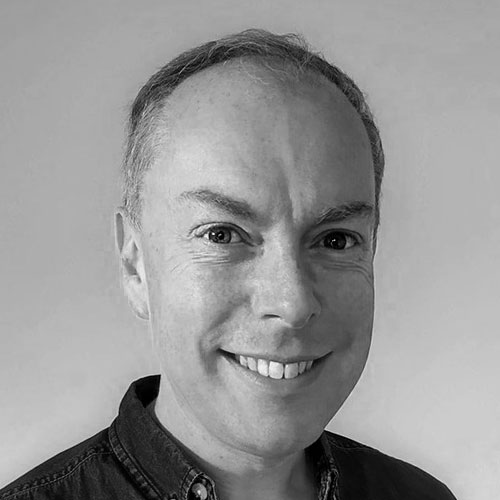
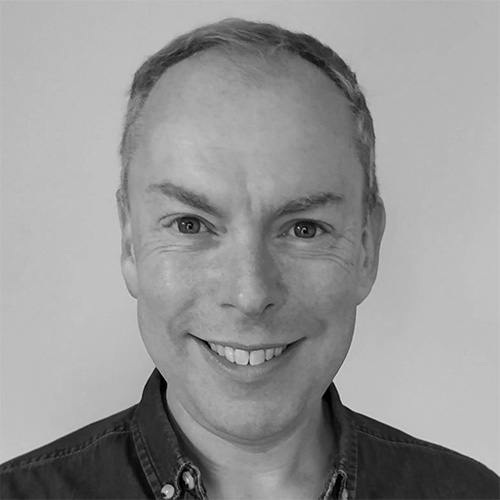
Added first set of speakers and bios

Changed region(s): [[0.0, 0.0, 1.0, 1.0], [0.0, 0.0, 0.18, 0.06], [0.21, 0.99, 0.24, 1.0]]

diff --git a/layouts/partials/speakers-template.html b/layouts/partials/speakers-template.html
@@ -1,13 +1,23 @@
+
+
 <div class="mx-auto text-gray-900 max-w-7xl dark:text-gray-50 speakers-list">
     <div class="px-4 not-prose">
         <div class="grid gap-4 mx-auto mt-12 mb-4 lg:max-w-none md:grid-cols-3">
             {{ range .Paginator.Pages }}
+            {{ $bg := "" }}
+            {{ if eq .Params.track "tech"  }}
+            {{    $bg = "bg-indigo-700" }}
+            {{ else if eq .Params.track "data" }}
+            {{    $bg = "bg-cyan-700" }}
+            {{ else if eq .Params.track "digital" }}
+            {{    $bg = "bg-rose-700" }}
+            {{ end }}
             <div class="flex flex-col overflow-hidden rounded-lg shadow-lg bg-gray-50 dark:bg-gray-900">
-                <a href="{{.Permalink}}">
+                <a href="{{.Permalink}}" class="{{ $bg }}">
                     {{ with .Params.featured_image }}
                     {{ with resources.Get . }}
                     {{ $postimage := (.Resize "500x webp q90").RelPermalink }}
-                    <img src="{{ $postimage }}" class="object-fill overflow-hidden rounded-t-lg" width="100%" height=""
+                    <img src="{{ $postimage }}" class="object-fill rounded-full overflow-hidden p-2" width="100%" height=""
                          loading="lazy" alt="{{ .Title }}" />
 
                     {{ end }}

diff --git a/layouts/partials/talk-info.html b/layouts/partials/talk-info.html
@@ -1,13 +1,22 @@
+{{ $bg := "" }}
+{{ if eq .Params.track "tech"  }}
+{{    $bg = "bg-indigo-700" }}
+{{ else if eq .Params.track "data" }}
+{{    $bg = "bg-cyan-700" }}
+{{ else if eq .Params.track "digital" }}
+{{    $bg = "bg-rose-700" }}
+{{ end }}
+
 {{ if eq .Params.track "tech" }}
-<span class="tag track rounded-lg bg-indigo-700 text-white p-1 px-2  mr-2 text-nowrap">
+<span class="tag track rounded-lg {{ $bg }} text-white p-1 px-2  mr-2 text-nowrap">
 ⌨ Tech + Software
 </span>
 {{ else if eq .Params.track "data" }}
-<span class="tag track rounded-lg bg-cyan-700 text-white p-1 px-2 mr-2 text-nowrap">
+<span class="tag track rounded-lg {{ $bg }} text-white p-1 px-2 mr-2 text-nowrap">
 🤖 Data + AI
 </span>
 {{ else if eq .Params.track "digital" }}
-<span class="tag track rounded-lg bg-rose-700 text-white p-1 px-2 mr-2 text-nowrap">
+<span class="tag track rounded-lg {{ $bg }} text-white p-1 px-2 mr-2 text-nowrap">
 🚀 Business + Digital
 </span>
 {{ end }}

diff --git a/layouts/speakers/single.html b/layouts/speakers/single.html
@@ -46,6 +46,12 @@
             {{ end }}
           </ul>
         </div>
+        {{ if .Params.bio_extended }}
+        <h3>Bio (continued)</h3>
+        {{ range .Params.bio_extended }}
+        <div class="px-2 py-4">{{ . }}</div>
+        {{ end }}
+        {{ end }}
       </div>
       <div class="bio-area basis-1/4" >
         <div class="prose dark:bg-slate-200 bg-white dark:text-black p-2 border-l-4 border-indigo-500 md:-mt-12 shadow-lg ">
@@ -76,4 +82,9 @@
   </div>
 
 </article>
+
+<div class="py-8 text-center text-white">
+  <span class="rounded-lg bg-indigo-500 text-white p-1 px-4"><a href="/speakers"> &laquo; Back to speaker list</a></span>
+
+</div>
 {{end}}

diff --git a/layouts/speakers/list.html b/layouts/speakers/list.html
@@ -8,15 +8,16 @@
                 </h1>
             </span>
         </header>
+
         {{ with .Content }}
         <div class="max-w-2xl px-6 mx-auto mt-6 prose dark:prose-invert dark:text-white">
             {{- . -}}
         </div>
         {{ end }}
         {{ partial "speakers-template.html" . }}
+        <p class="py-8 text-center text-white">
+            Our speakers are still finalizing their talks - check back soon for a full list and our draft schedule!
+        </p>
     </article>
-    <div class="max-w-xl mx-auto my-16">
-        {{ partial "pagination" . }}
-    </div>
 </main>
 {{ end }}

diff --git a/assets/css/style.css b/assets/css/style.css
@@ -1717,6 +1717,16 @@ video {
   background-color: rgb(244 244 245 / var(--tw-bg-opacity));
 }
 
+.bg-cyan-500 {
+  --tw-bg-opacity: 1;
+  background-color: rgb(6 182 212 / var(--tw-bg-opacity));
+}
+
+.bg-rose-500 {
+  --tw-bg-opacity: 1;
+  background-color: rgb(244 63 94 / var(--tw-bg-opacity));
+}
+
 .bg-gradient-to-r {
   background-image: linear-gradient(to right, var(--tw-gradient-stops));
 }
@@ -1879,6 +1889,11 @@ video {
 .py-2\.5 {
   padding-top: 0.625rem;
   padding-bottom: 0.625rem;
+}
+
+.py-4 {
+  padding-top: 1rem;
+  padding-bottom: 1rem;
 }
 
 .py-6 {

diff --git a/content/speakers/namia-mohamed-ali.md b/content/speakers/namia-mohamed-ali.md
@@ -12,7 +12,7 @@ slot_Type: "talk"
 slot_level: 2
 slot_title: "Enhancing Healthcare with AI: The Role of Human-in-the-Loop in Medical Imaging"
 summary: "Enhancing Healthcare with AI: The Role of Human-in-the-Loop in Medical Imaging"
-#featured_image: /images/speakers/---.jpg
+featured_image: /images/speakers/namia-mohamed-ali.jpg
 #company_image: /images/speakers/-company.png
 contact:
 - text: "LinkedIn"
@@ -23,6 +23,10 @@ takeaways:
 - Insight into AI Applications in Healthcare
 - Understanding of Human-in-the-Loop (HITL) Approaches
 - Knowledge of Challenges and Future Trends
+bio_extended: 
+- I've earned an MSc in Data Science with a focus on Artificial Intelligence, where I had the chance to work on exciting projects, like using hybrid intelligence for medical image segmentation. I have also collaborated with HSBC, developing AI-driven productivity solutions at hackathons. My recent experience includes participating as a facilitator in the Data Study Groups organized by the Defence Data Research Centre, where I worked on challenges related to synthetic data generation for machine learning in the Intelligence, Surveillance, and Reconnaissance (ISR) domain.
+- These experiences have taught me how to turn complex data into useful insights that can make a real difference in both business and academic settings.
+- I'm always eager to learn and keep up with the latest in technology, which is why I've earned certifications from NASSCOM and Cutshort. I'm driven by a curiosity for data and a genuine desire to use technology to make a positive impact. I'm excited about using my skills to help make data-driven decisions and come up with innovative solutions!
 ---
 
 Join us for a compelling session on how Artificial Intelligence (AI) is revolutionizing the healthcare industry, with a spotlight on medical imaging and segmentation. We'll explore how AI is currently being used to improve diagnostics, personalize treatment, and enhance patient care. A key focus will be on the Human-in-the-Loop (HITL) approach, which integrates AI with human expertise to achieve higher accuracy and reliability in medical imaging.
@@ -30,9 +34,3 @@ Join us for a compelling session on how Artificial Intelligence (AI) is revoluti
 We will discuss real-world applications of HITL, demonstrating how combining AI with human oversight leads to better outcomes in detecting diseases and interpreting complex medical data. Attendees will gain insights into the challenges and ethical considerations of using AI in healthcare, such as ensuring data privacy and addressing algorithmic biases. This session will also look ahead at future advancements and the potential for collaboration between AI technologies and healthcare professionals.
 
 Perfect for healthcare practitioners, data scientists, and AI enthusiasts, this session will offer valuable knowledge on how AI and human intelligence can work together to transform healthcare. Don't miss this opportunity to learn about the future of AI in medical imaging and how it can lead to improved patient outcomes.
-
-Bio:
-
-I've had the chance to work on some exciting projects, like using hybrid intelligence for medical image segmentation and coming up with AI-driven productivity solutions at hackathons. These experiences have taught me how to turn complex data into useful insights that can make a real difference in both business and academic settings.
-
-I'm always eager to learn and keep up with the latest in technology, which is why I've earned certifications from NASSCOM and Cutshort. I'm driven by a curiosity for data and a genuine desire to use technology to make a positive impact. I'm excited about using my skills to help make data-driven decisions and come up with innovative solutions!

diff --git a/content/speakers/shirley-atkinson.md b/content/speakers/shirley-atkinson.md
@@ -1,0 +1,32 @@
+---
+draft: true
+language: en
+categories:
+- speakers
+title: "Dr Shirley Atkinson"
+job_title: "Faculty Director for Data Science and AI Education"
+company: "University of Exeter Business School"
+track: "digital"
+slot_length: 30
+slot_Type: "talk"
+slot_level: 2
+slot_title: "Higher Education in AI landscape"
+summary: "Higher Education in AI landscape"
+#featured_image: /images/speakers/---.jpg
+#company_image: /images/speakers/---company.png
+contact:
+-  text: Website
+   url: https://business-school.exeter.ac.uk/management/people/profile/index.php?username=sa1040
+bio:
+- Dr Shirley Atkinson holds two roles, one is the Faculty Director of Data Science and AI Education, the other is the Director of Education for the Operations and Analytics (O&A) team in the University of Exeter Business School. Her focus is on supporting colleagues in the team in developing excellent teaching in analytics and coding both within the O&A department and across the faculty. 
+- Dr Shirley Atkinson held the role of Associate Head of Computing at the University of Plymouth for 4 years, leading a small team to improve student satisfaction scores and a complete revamp of the computing curriculum leading to successful BCS Accreditation.
+- Shirley is a Senior Fellow of the HEA and has led the Computing At School (CAS) South West Regional centre along with the Regional Delivery Partner for the National Computing Centre for Education (NCCE)
+takeaways:
+- Overview of support for AI tools in Uni education
+---
+
+Students at University have seen the impact that LLMs and other AI tools have had on how they can produce work for assessment. A number are concerned - quite rightfully - that they could be doing the “wrong thing”.  
+
+We know that collaboration and peer discussion is crucial to help students learn and to take their place in the ever moving tech environment.  The issue for us as educators is how to make sure that can happen without infringing plagiarism rules and ensuring the work is authentically that of the student submitting. 
+
+This talk illustrates how the faculty here at Exeter are setting out to support and encourage the use of AI tools ethically and appropriately.

diff --git a/content/speakers/peter-fernandez.md b/content/speakers/peter-fernandez.md
@@ -4,21 +4,22 @@ language: en
 categories:
 - speakers
 title: "Peter Fernandez"
-job_title: "Principal Developer Advocate - Auth0 by Okta"
+job_title: "Principal Developer Advocate - Auth0"
 company: "Okta"
 track: "tech"
 slot_length: 30
 slot_Type: "talk"
 slot_level: 2
-slot_title: "Eye Spy your API"
-summary: "Eye Spy your API"
-#featured_image: /images/speakers/---.jpg
-#company_image: /images/speakers/---company.png
+slot_title: "Eye Spy an API"
+summary: "How to protect access to your Resources Servers and prevent unwanted access using OAuth 2.0"
+featured_image: /images/speakers/peter-fernandez.jpg
+company_image: /images/pages/sponsor_okta.png
 contact:
 -  text: LinkedIn
    url: https://www.linkedin.com/in/pgfernandez/
 bio:
-- As an Architect, Consultant and Engineer, Peter has more than 30 years of experience designing and developing secure and robust software solutions. When not helping teams with the complexities of Customer Identity, you can usually find him working behind the scenes, acting in or directing a show at his local theatre.
+- As an Architect, Consultant and Engineer, Peter has more than 30 years of experience designing and developing secure and robust software solutions. 
+- When not helping teams with the complexities of Customer Identity, you can usually find him working behind the scenes, acting in or directing a show at his local theatre.
 takeaways:
 - What are APIs
 - What is OAuth 2.0

diff --git a/content/speakers/will-earp.md b/content/speakers/will-earp.md
@@ -12,13 +12,14 @@ slot_Type: "talk"
 slot_level: 2
 slot_title: "StopNCII.org - Preventing Non-Consentual Intimate Image Abuse"
 summary: "StopNCII.org - Preventing Non-Consentual Intimate Image Abuse"
-#featured_image: /images/speakers/---.jpg
-#company_image: /images/speakers/---company.png
+featured_image: /images/speakers/will-earp.jpg
+company_image: /images/speakers/will-earp-swgfl-strap.png
 contact:
 - text: "@hexydec"
   url: https://x.com/hexydec
 bio:
-- Professional software engineer for 25+ years and still learning everyday. Tech lead @swgfl_official , developing FOSS, and helping people in tech. Online Safety advocate. Strives for usable and efficient software.
+- Professional software engineer for 25+ years and still learning everyday. Tech lead @swgfl_official , developing FOSS, and helping people in tech.
+- Online Safety advocate. Strives for usable and efficient software.
 takeaways:
 - To gain a greater understanding of some of the challenges users are facing with the rise of the web and social media
 - To see what is being done to address these issues, and 

diff --git a/content/speakers/craig-buckler.md b/content/speakers/craig-buckler.md
@@ -21,6 +21,8 @@ contact:
    url: https://www.linkedin.com/in/craigbuckler
 -  text: Website
    url: https://www.craigbuckler.com
+-  text: Github
+   url: https://github.com/craigbuckler
 bio:
 - Craig is a freelance developer, author, and speaker who's been on the web since the early days (including IE1.0 - that's why he looks so old).
 - He's consulted for many companies, authored several books, and written a few thousand tutorials for SitePoint, O'Reilly and others.

diff --git a/content/speakers/andy-gatward.md b/content/speakers/andy-gatward.md
@@ -1,5 +1,5 @@
 ---
-draft: false
+draft: true
 language: en
 categories:
 - speakers

diff --git a/content/speakers/art-o-cathain.md b/content/speakers/art-o-cathain.md
@@ -1,5 +1,5 @@
 ---
-draft: false
+draft: true
 language: en
 categories:
 - speakers
